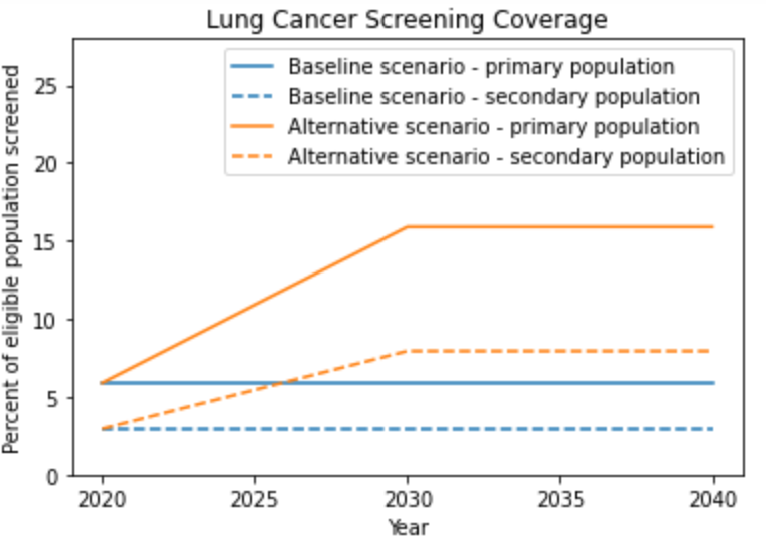
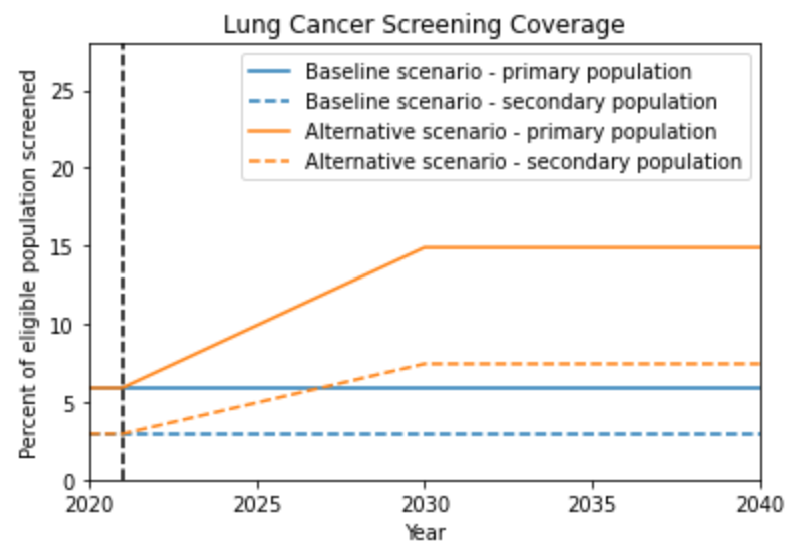
update so that scale up starts in 2021

Changed region(s): [[0.0, 0.0, 0.9909, 1.0]]

diff --git a/docs/source/concept_models/vivarium_swissre_lungcancer/concept_model.rst b/docs/source/concept_models/vivarium_swissre_lungcancer/concept_model.rst
@@ -365,7 +365,11 @@ Note that considerations of additional differential coverage rates by variables 
 
 .. image:: screening_coverage_plot.png
 
-The above figure demonstrates the overall screening coverage rates that should be used in our model. Specifically, the baseline scenario population coverage rate for the primary screening target population should be 5.9% from 2020 to 2040. The alternative scenario population coverage rate for the primary screening target population should scale up from 5.9% in 2020 at a rate of one percent per year until 2030 and then remain constant at 16.9% from 2030 to 2040. For both scenarios, the coverage rate for the secondary screening target population should be 50% of the coverage rate for the primary screening target population.
+The above figure demonstrates the overall screening coverage rates that should be used in our model. Specifically, the baseline scenario population coverage rate for the primary screening target population should be 5.9% from 2020 to 2040. The alternative scenario population coverage rate for the primary screening target population should remain at 5.9% before starting to scale up from 5.9% in 2021 at a rate of one percent per year until 2030 and then remain constant from 2030 to 2040. For both scenarios, the coverage rate for the secondary screening target population should be 50% of the coverage rate for the primary screening target population.
+
+.. todo::
+
+  Determine when scale up ends for other cancer sites (begining, middle or end of 2030) in order to calculate ending coverage rate
 
 **Sex Differences**
 
